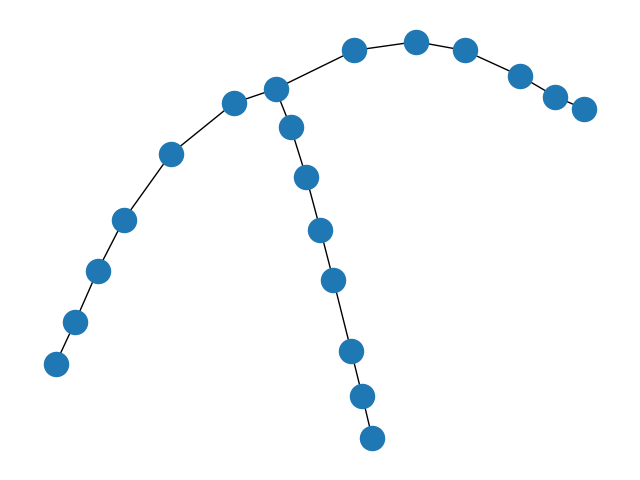
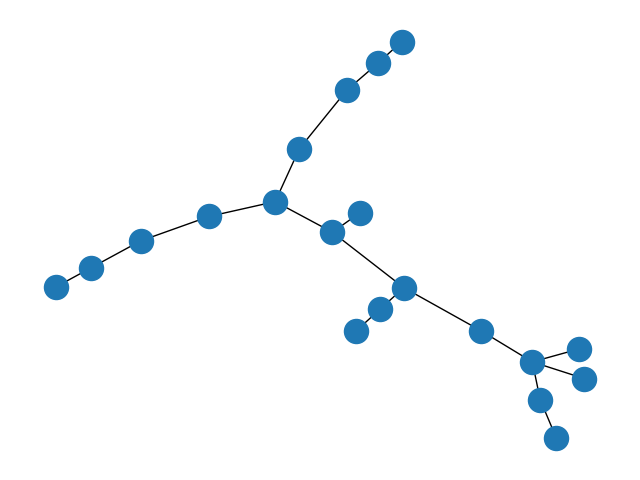
Random spanning tree added

diff --git a/rout.py b/rout.py
@@ -2,6 +2,7 @@
 import config 
 import networkx as nx
 import math
+import random
 
 
 '''
@@ -125,11 +126,7 @@ class Routing:
                     VT.append(edge)
                     Inc.append((edge[0].id,edge[1].id))
                     
-        #return ST
         self.tree_nodes=[]
-        #print("hie")
-        #print(result)
-        #print(ST)
         ST.sort(key=func,reverse=True)
         print(ST)
         for edge in result:
@@ -142,10 +139,6 @@ class Routing:
         for node in self.tree_nodes:
             #print(node)
             print(node[0].id,node[0].payload)
-            #print("hu")
-        #print(ST)
-        print("fieasd")
-        print("Hi")
         return Tree
     
     
@@ -186,6 +179,72 @@ class Routing:
             i+=1
             nodes[0].reactivate()
             
+
+    def random_spanning(self):
+        Tree=nx.Graph()
+        sink=self.network.get_sink()
+        # print(sink)
+        nodes=self.network.get_alive_nodes()
+        if len(nodes) < config.NB_NODES:
+            print("node dead cannot continue")
+            return 0
+        #print(nodes)
+        edges=self.network.communication_link()
+        ST=[]
+        VT=[]
+        result=[]
+        inc=[]
+        Inc=[]
+        sink.visited=1
+        ST.append((sink,sink.id,sink.hop))
+        inc.append(sink)
+        for edge in edges:
+            if sink in edge:
+                VT.append(edge)
+                Inc.append((edge[0].id,edge[1]))
+
+        while not self.network.all_visited_nodes():
+            random_no=random.randint(0,len(VT)-1)
+            print(random_no,len(VT))
+            res=VT[random_no]
+            if res[0].visited and res[1].visited:
+                continue
+            if res[0].visited:
+                res[0],res[1]=res[1],res[0]
+            result.append(res)
+            res[0].visited=1
+            res[1].visited=1
+            res[0].parent=res[1]
+            update_payload(res[1])
+            res[0].hop=res[1].hop+1
+            ST.append((res[0],res[0].id,res[0].hop))
+            inc.append(res[0])
+            VT.remove(res)
+            for edge in edges:
+                if edge not in VT and res[0] in edge and edge not in result :
+                    if edge[0] in inc and edge[1] in inc:
+                        continue
+                    VT.append(edge)
+                    Inc.append((edge[0].id,edge[1].id))
+            
+        #return ST
+        self.tree_nodes=[]
+        #print("hie")
+        #print(result)
+        #print(ST)
+        ST.sort(key=func,reverse=True)
+        print(ST)
+        for edge in result:
+            print(edge[0].id,edge[1].id)
+        for node in ST:
+            self.tree_nodes.append(node)
+        Tree.add_edges_from(result)
+        for node in self.tree_nodes:
+            print(node[0].id,node[0].payload)
+        return Tree
+
+        
+        
             
         
 

diff --git a/network.py b/network.py
@@ -38,7 +38,8 @@ class Network():
       node.reactivate()
     r=Routing(self)
     r.wakeup()
-    t=r.make_Lifetime_Tree()
+    #t=r.make_Lifetime_Tree()
+    t=r.random_spanning()
     if t == 0:
       # simpy.Interrupt()
       self.end = 1
